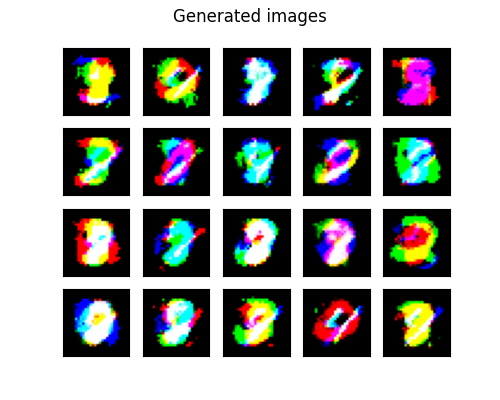
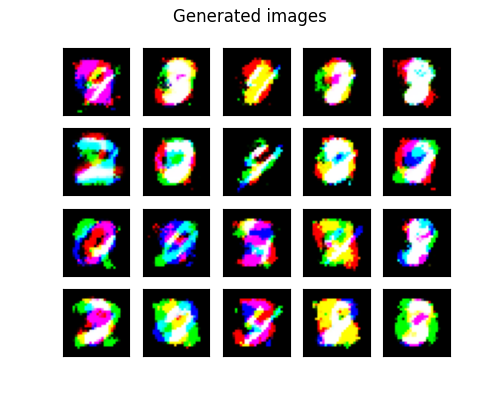
Rerendered images

diff --git a/deep_generative_model.py b/deep_generative_model.py
@@ -17,9 +17,9 @@ class DeepGenerativeModel:
     """
 
     def __init__(self):
-        self.use_vae = True  # Whether to use standard AE or VAE
-        self.run_anomaly_detection = True  # Whether to run anomaly detection
-        self.stacked_dataset = True  # Whether to use mono or color data set
+        self.use_vae = False  # Whether to use standard AE or VAE
+        self.run_anomaly_detection = False  # Whether to run anomaly detection
+        self.stacked_dataset = False  # Whether to use mono or color data set
         self.encoded_dim = 5  # Size of encoded vector
         self.epochs = 45  # Number of epochs to train
         self.image_size = 28  # Size of image
